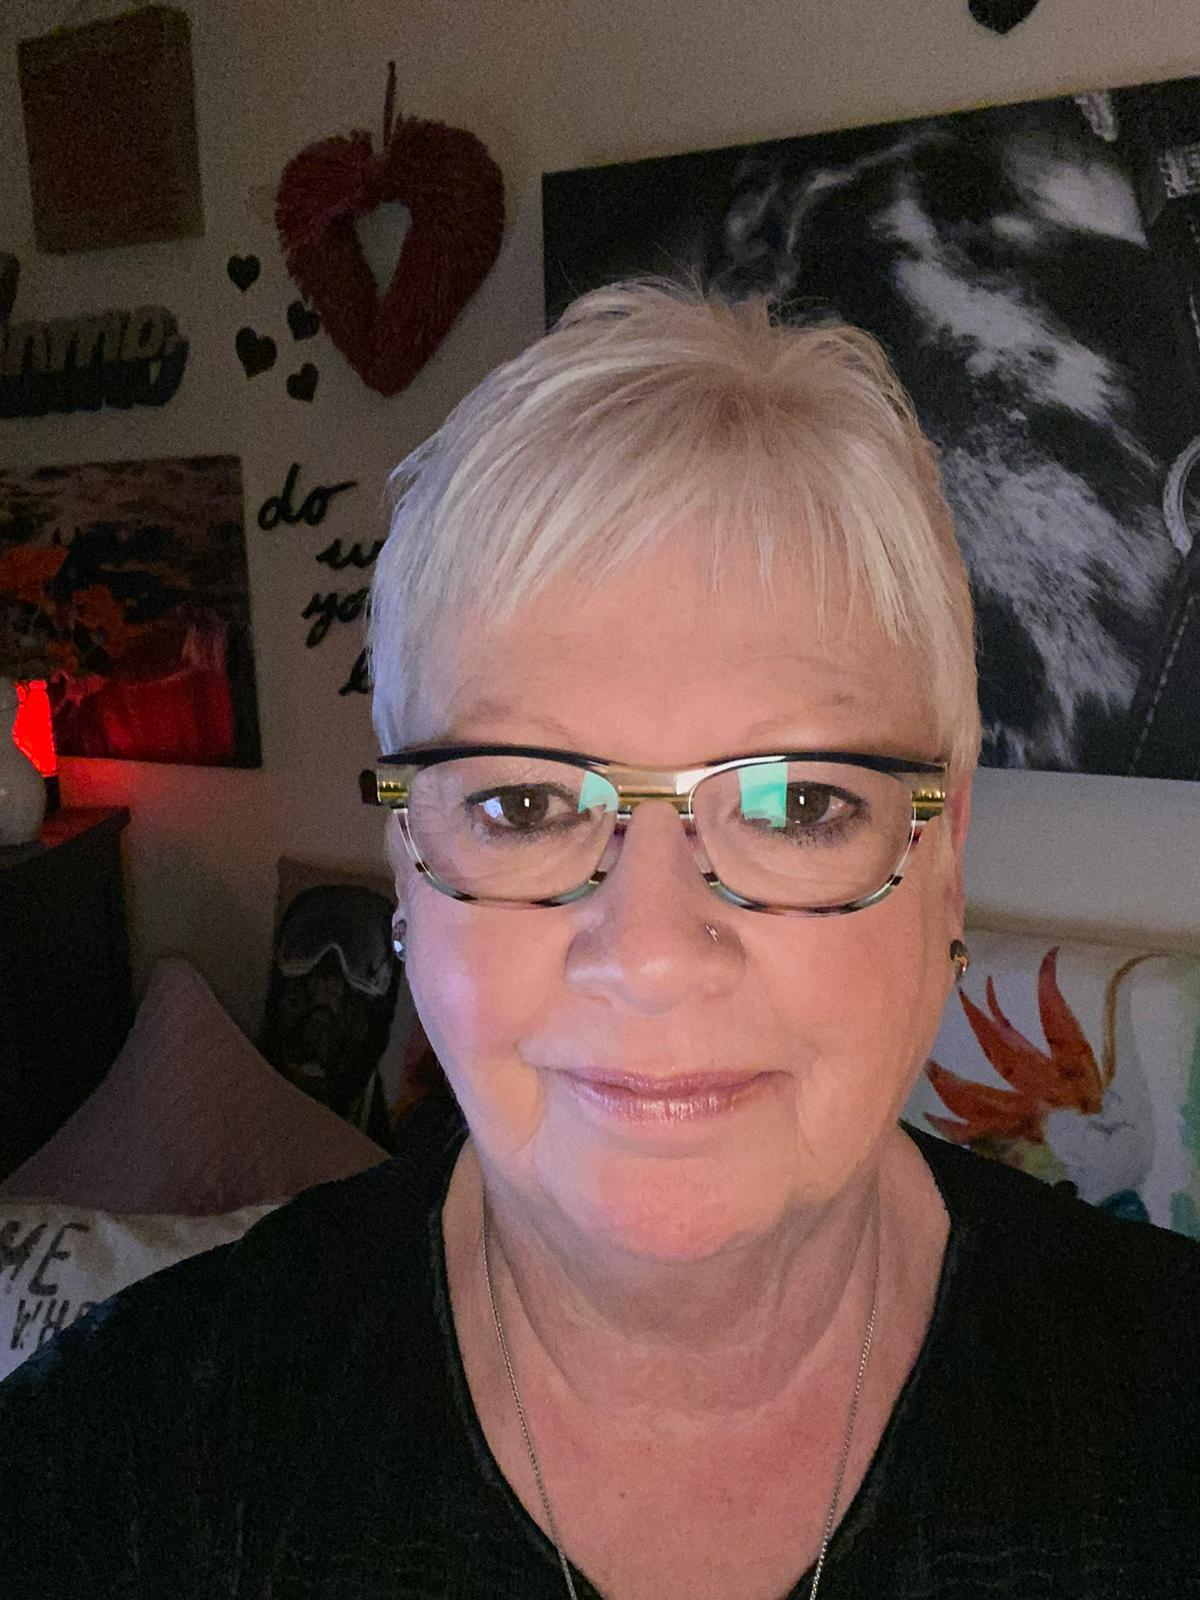
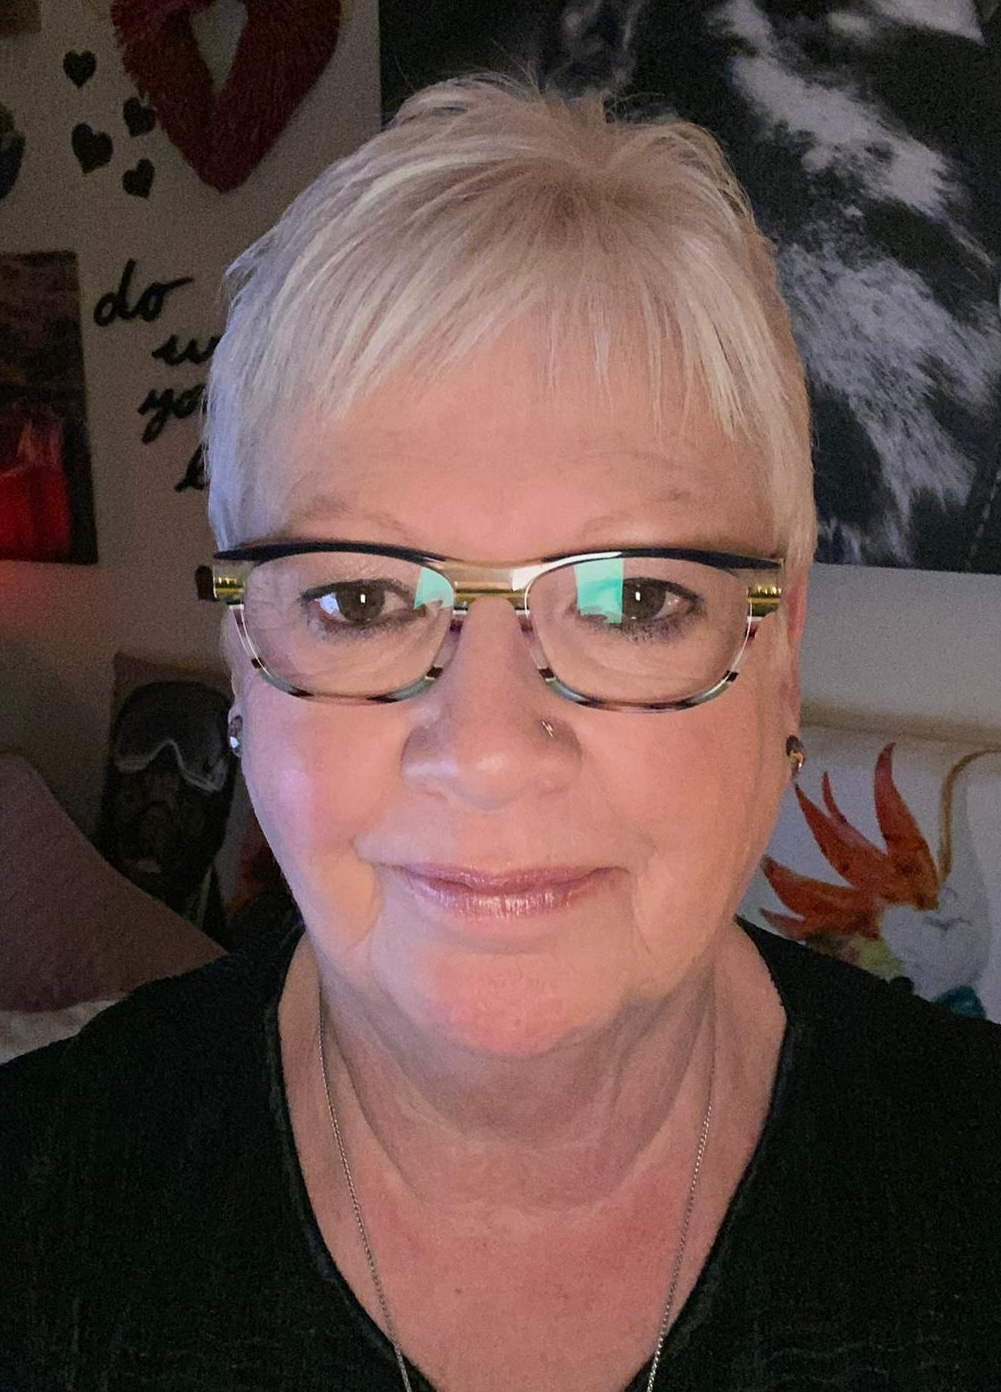
angie's profile picture fix

diff --git a/app/ui/about/execteam.tsx b/app/ui/about/execteam.tsx
@@ -126,7 +126,7 @@ function TeamCard({
 
 const members = [
   {
-    img: "/angieabou.jpeg",
+    img: "/angie-lal.png",
     name: "Angeline Lal",
     title: "Founding Director",
     desc: "Angeline Lal, Founder of ABC Foundation, advocates for social justice and community empowerment. With diverse experience, she spearheads initiatives and empowers individuals through education, aiming for a more equitable society.",
